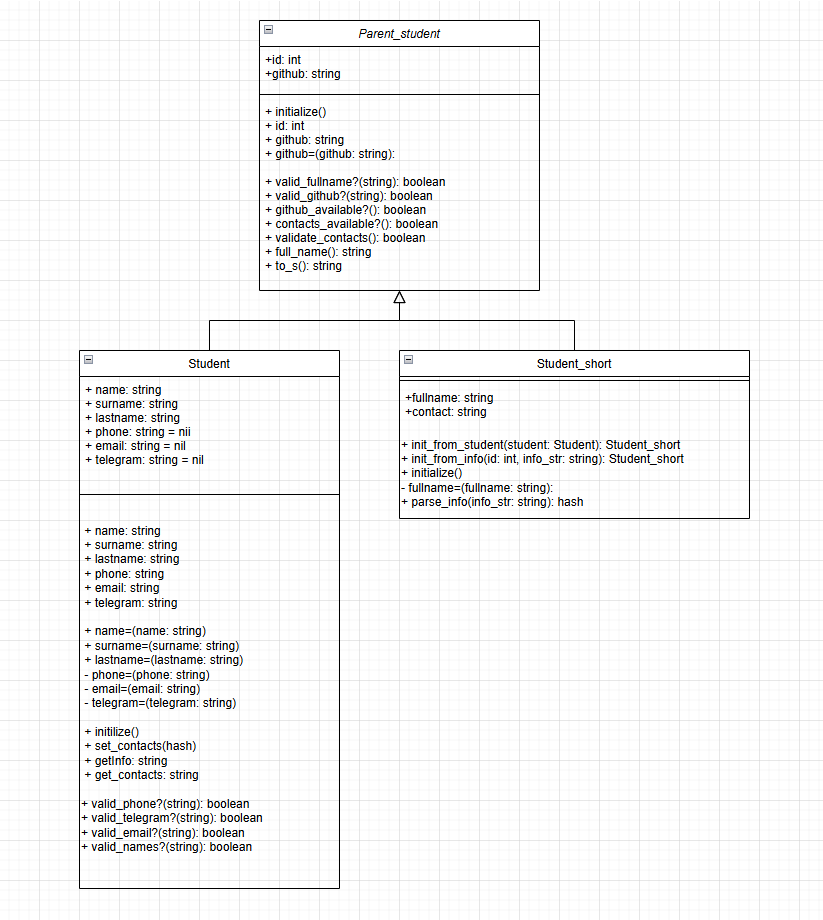
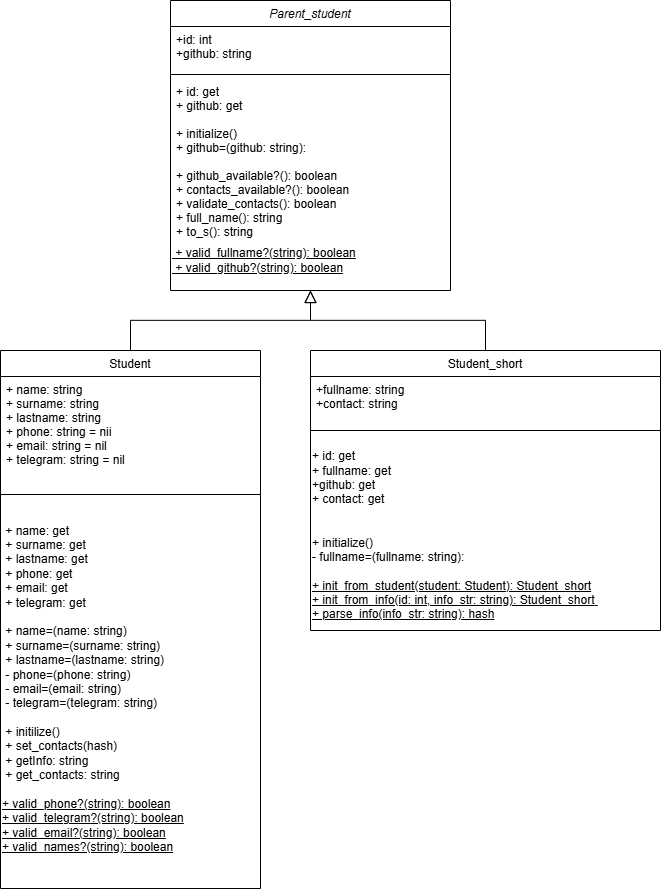
(lab.2) some fixes

diff --git a/student/student_short.rb b/student/student_short.rb
@@ -27,7 +27,7 @@ class Student_short < Parent_student
         contact: parsed_info[:contact])
   end
 
-  def fullname=(fullname)
+  private def fullname=(fullname)
     if self.class.valid_fullname?(fullname)
       @fullname = fullname
     else

diff --git a/student/main.rb b/student/main.rb
@@ -26,3 +26,4 @@ puts info_str
 student_short2 = Student_short.init_from_info(2, info_str)
 puts ""
 puts student_short2
+puts ""
